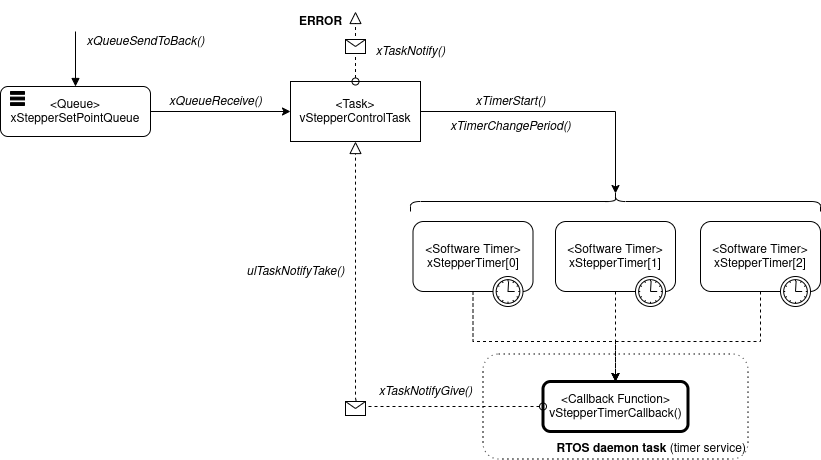
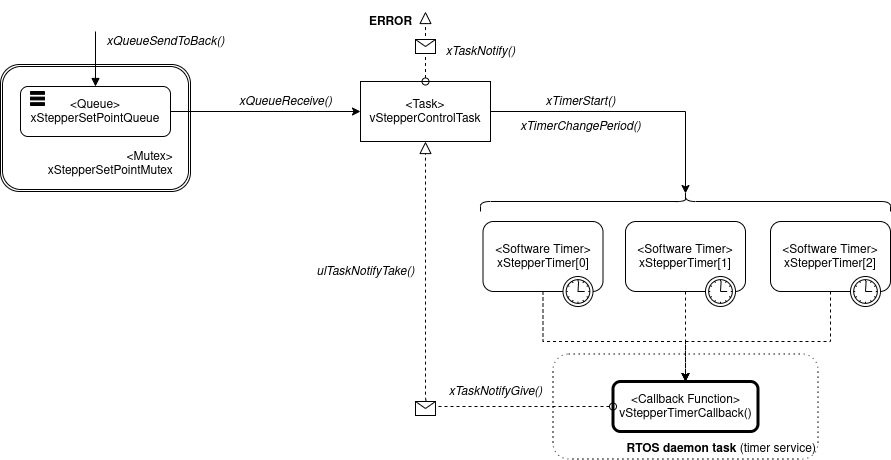
[update] actualización de diagramas

diff --git a/app/inc/stepper.h b/app/inc/stepper.h
@@ -82,11 +82,6 @@
 */
 typedef char StepperDir_t;
 
-/*! \var QueueHandle_t xStepperSetPointQueue
-    \brief Cola de consignas recibidas a ejecutar.
-*/
-//extern QueueHandle_t xStepperSetPointQueue;
-
 /*! \fn void vStepperSendMsg( char *pcMsg )
 	\brief Enviar consigna a cola de consignas pendientes.
 	\param pcMsg String con consigna a enviar.
